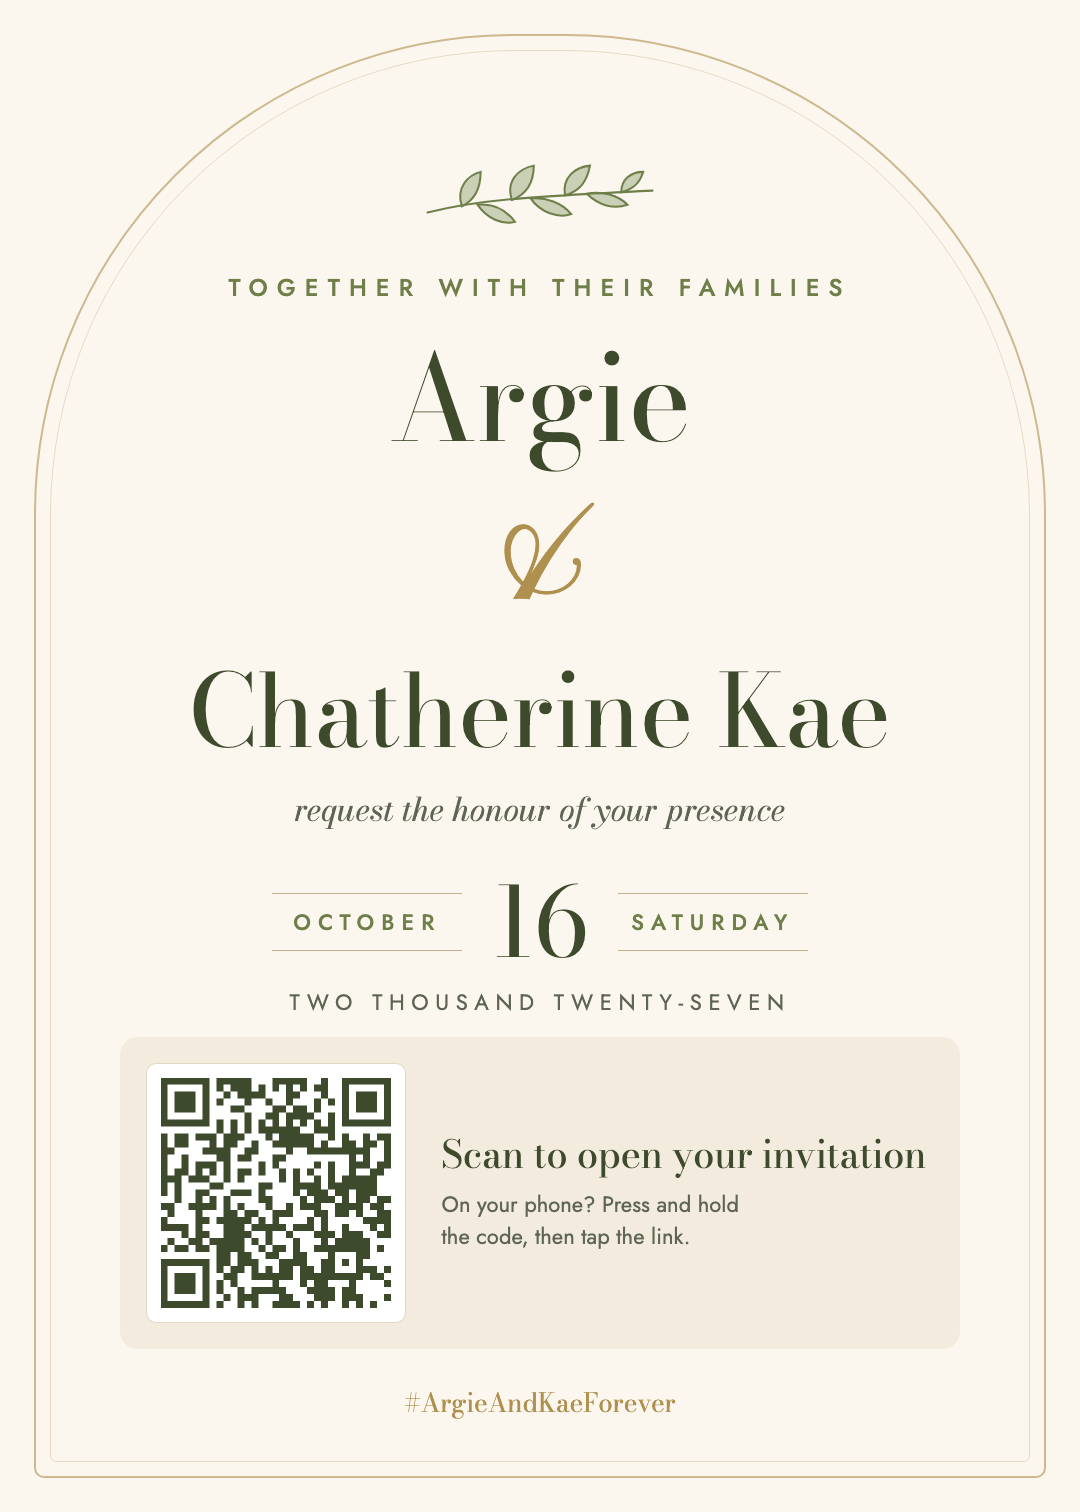
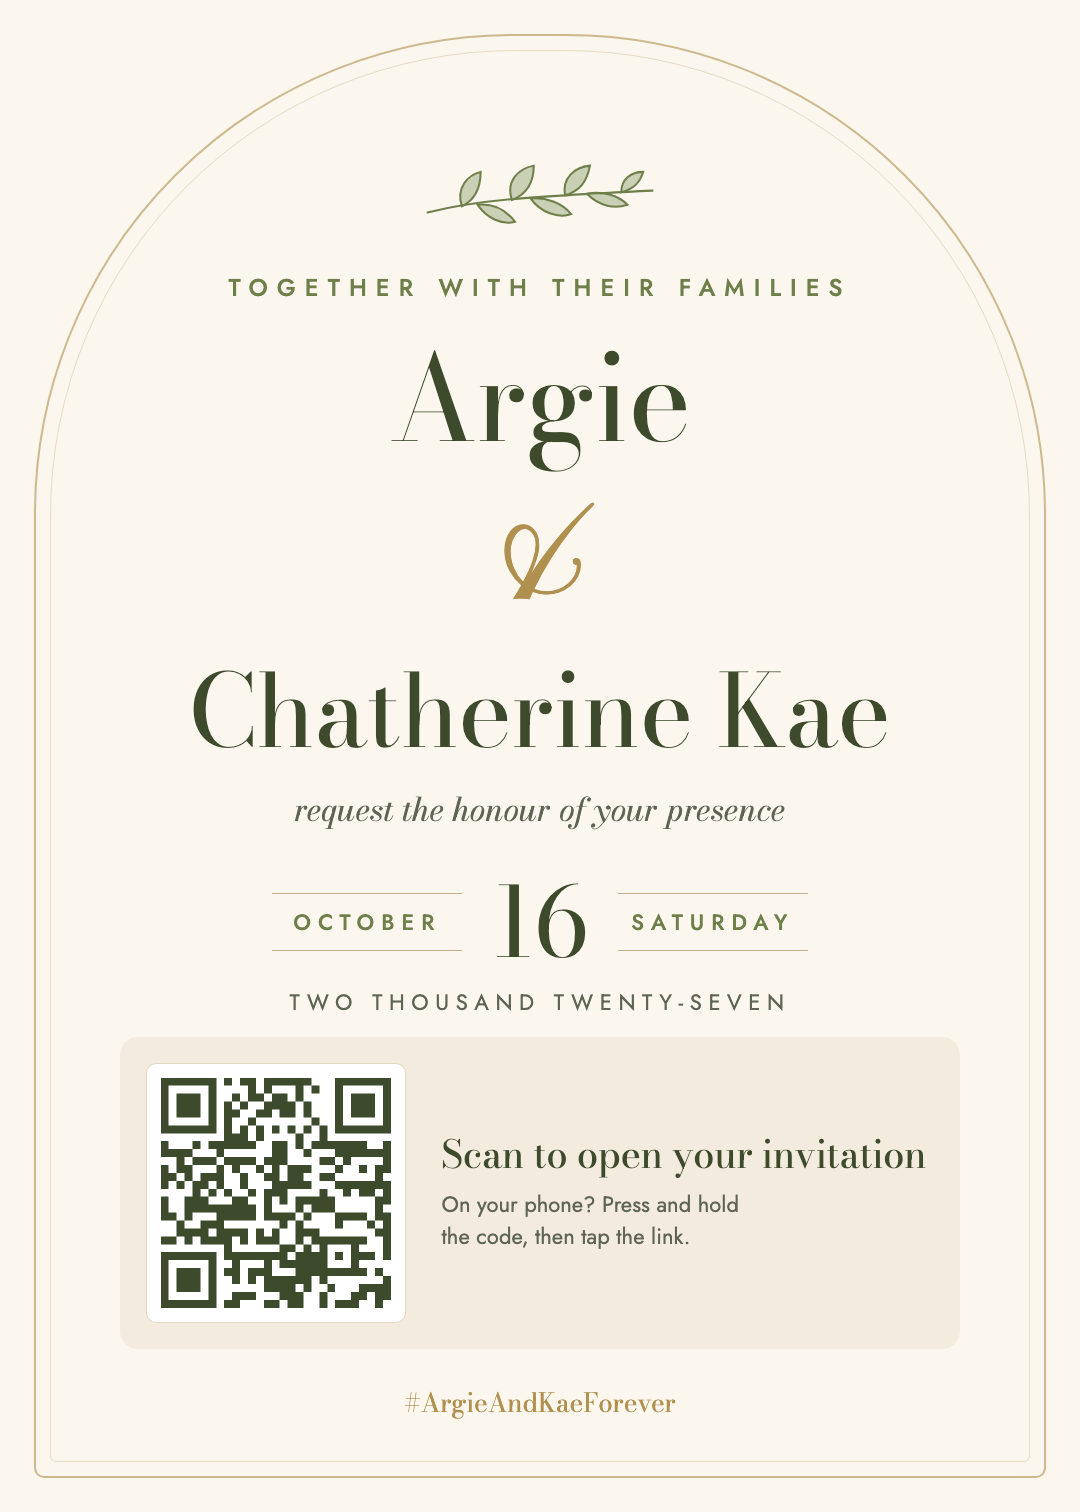
Move invitation links to wedding.argieandckae.pages.dev

Changed region(s): [[0.1528, 0.7149, 0.3667, 0.8704]]

diff --git a/index.html b/index.html
@@ -11,13 +11,13 @@
 <meta property="og:site_name" content="Argie & Chatherine Kae">
 <meta property="og:title" content="Argie & Chatherine Kae · You're Invited">
 <meta property="og:description" content="Saturday, October 16, 2027. Tap to open your wedding invitation.">
-<meta property="og:url" content="https://reyargieee-spec.github.io/argie-ckae-wedding/">
-<meta property="og:image" content="https://reyargieee-spec.github.io/argie-ckae-wedding/og-image.jpg">
+<meta property="og:url" content="https://wedding.argieandckae.pages.dev/">
+<meta property="og:image" content="https://argieandckae-wedding.pages.dev/og-image.jpg">
 <meta property="og:image:width" content="1200">
 <meta property="og:image:height" content="630">
 <meta property="og:image:alt" content="Wedding invitation for Argie and Chatherine Kae, October 16, 2027">
 <meta name="twitter:card" content="summary_large_image">
-<meta name="twitter:image" content="https://reyargieee-spec.github.io/argie-ckae-wedding/og-image.jpg">
+<meta name="twitter:image" content="https://argieandckae-wedding.pages.dev/og-image.jpg">
 <link rel="preconnect" href="https://fonts.googleapis.com">
 <link rel="preconnect" href="https://fonts.gstatic.com" crossorigin>
 <link rel="stylesheet" href="https://fonts.googleapis.com/css2?family=Bodoni+Moda:ital,opsz,wght@0,6..96,400;0,6..96,500;1,6..96,400;1,6..96,500&family=Jost:wght@300;400;500&family=Pinyon+Script&display=swap">

diff --git a/guest.html b/guest.html
@@ -9,8 +9,8 @@
 <meta property="og:type" content="website">
 <meta property="og:title" content="Argie & Chatherine Kae · Wedding Moments">
 <meta property="og:description" content="Share your photos, leave a wish and play along.">
-<meta property="og:url" content="https://reyargieee-spec.github.io/argie-ckae-wedding/guest.html">
-<meta property="og:image" content="https://reyargieee-spec.github.io/argie-ckae-wedding/og-image.jpg">
+<meta property="og:url" content="https://wedding.argieandckae.pages.dev/guest.html">
+<meta property="og:image" content="https://argieandckae-wedding.pages.dev/og-image.jpg">
 <meta property="og:image:width" content="1200">
 <meta property="og:image:height" content="630">
 <meta name="twitter:card" content="summary_large_image">

diff --git a/config.js b/config.js
@@ -65,10 +65,10 @@ window.WEDDING = {
      Leave empty to use guest.html next to the invitation automatically.
      After you host the site, you can paste the full link here, e.g.
      "https://argie-and-kae.netlify.app/guest.html" */
-  guestUrl: "https://reyargieee-spec.github.io/argie-ckae-wedding/guest.html",
+  guestUrl: "https://wedding.argieandckae.pages.dev/guest.html",
 
   // Invitation link that the QR invitation card opens
-  inviteUrl: "https://reyargieee-spec.github.io/argie-ckae-wedding/",
+  inviteUrl: "https://wedding.argieandckae.pages.dev/",
 
   /* Supabase connection (free). Leave empty to run in DEMO MODE,
      where everything is saved only in this browser.
